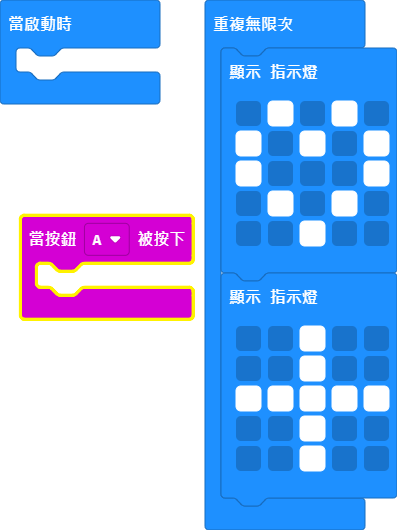
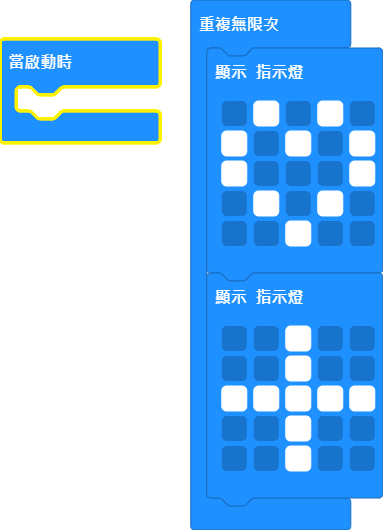
更新 main.blocks, main.ts

diff --git a/main.ts b/main.ts
@@ -1,6 +1,3 @@
-input.onButtonPressed(Button.A, function () {
-	
-})
 basic.forever(function () {
     basic.showLeds(`
         . # . # .
